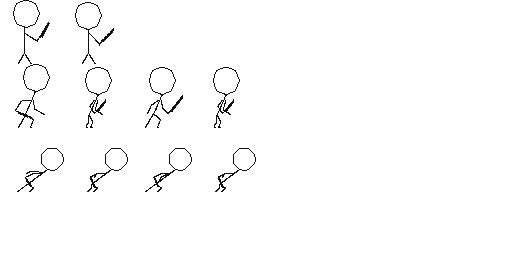
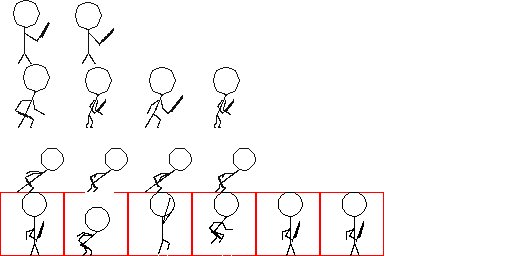
jumping animation

diff --git a/src/application/player.c b/src/application/player.c
@@ -16,7 +16,8 @@
 typedef enum
 {
     PS_IDLE =                   0,
-    PS_WALKING =                1
+    PS_WALKING =                1,
+    PS_JUMPING =                2
 } PlayerState;
 
 typedef enum
@@ -32,6 +33,7 @@ void player_update(Entity *self);
 void player_think(Entity *self);
 
 void player_walking();
+uint8_t player_jumping();
 
 float walkDir = 0.0f;
 uint8_t left, right;
@@ -52,7 +54,11 @@ void player_think(Entity *self)
     if(!self) return;
 
     player_walking();
-    if(walkDir != 0.0f)
+    if( player_jumping() )
+    {
+        currentState = PS_JUMPING;
+    }
+    else if(walkDir != 0.0f)
     {
         currentState = PS_WALKING;
     }
@@ -66,18 +72,32 @@ void player_think(Entity *self)
     case PS_WALKING:
         if( self->anim->animation != ANIM_WALKING )
         {
-            anim = punti_jordan_get_walking();
-            animSpeed = punti_jordan_get_walking_speed();
+            anim = pj_anim_walking();
+            animSpeed = pj_anim_walking_speed();
             gf2d_animation_play(self->anim, anim[0], anim[1]);
             self->anim->playbackSpeed = animSpeed;
+        }
+        break;
+
+    case PS_JUMPING:
+        anim = pj_anim_jumping();
+        animSpeed = pj_anim_jumping_speed();
+        if( self->anim->animation != anim[0] )
+        {
+            gf2d_animation_play(self->anim, anim[0], anim[1]);
+            self->anim->playbackSpeed = animSpeed;
+        }
+        else if( self->anim->rend->frame >= anim[0] * self->anim->rend->sprite->frames_per_line + anim[1] - 1)
+        {
+            gf2d_animation_pause(self->anim);
         }
         break;
     
     default:
         if( self->anim->animation != ANIM_IDLE )
         {
-            anim = punti_jordan_get_idle();
-            animSpeed = punti_jordan_get_idle_speed();
+            anim = pj_anim_idle();
+            animSpeed = pj_anim_idle_speed();
             gf2d_animation_play(self->anim, anim[0], anim[1]);
             self->anim->playbackSpeed = animSpeed;
         }
@@ -92,6 +112,10 @@ void player_update(Entity *self)
 
     /* update walking */
     self->velocity.x = walkDir * VELOCITY_CONST;
+
+    /* update jumping */
+    if( currentState == PS_JUMPING )
+        self->velocity.y = -10.0f;
 
     /* make camera follow player */
     cam.x = self->anim->rend->sprite->frame_w * self->anim->rend->scale.x;
@@ -126,4 +150,9 @@ void player_walking()
         left = 0;
 
     walkDir = (float)(right - left);
+}
+
+uint8_t player_jumping()
+{
+    return gf2d_input_is_key_pressed(SDL_SCANCODE_UP);
 }

diff --git a/src/application/punti_jordan.c b/src/application/punti_jordan.c
@@ -9,6 +9,8 @@ typedef struct
     float                   idleSpeed;
     uint32_t                walking[2];
     float                   walkingSpeed;
+    uint32_t                jumping[2];
+    float                   jumpingSpeed;
 } PuntiJordanConfig;
 
 static PuntiJordanConfig pj_config = {0};
@@ -23,6 +25,7 @@ void punti_jordan_load(const char *filename)
 
     punti_jordan_load_anim_values(pj_config.idle, &pj_config.idleSpeed, sj_object_get_value(json, "idle"));
     punti_jordan_load_anim_values(pj_config.walking, &pj_config.walkingSpeed, sj_object_get_value(json, "walking"));
+    punti_jordan_load_anim_values(pj_config.jumping, &pj_config.jumpingSpeed, sj_object_get_value(json, "jumping"));
 
     sj_free(json);
 }
@@ -34,22 +37,32 @@ void punti_jordan_load_anim_values(uint32_t *dst, float *speed, SJson *obj)
     sj_get_float_value( sj_object_get_value(obj, "playbackSpeed"), speed );
 }
 
-uint32_t *punti_jordan_get_idle()
+uint32_t *pj_anim_idle()
 {
     return pj_config.idle;
 }
 
-float punti_jordan_get_idle_speed()
+float pj_anim_idle_speed()
 {
     return pj_config.idleSpeed;
 }
 
-uint32_t *punti_jordan_get_walking()
+uint32_t *pj_anim_walking()
 {
     return pj_config.walking;
 }
 
-float punti_jordan_get_walking_speed()
+float pj_anim_walking_speed()
 {
     return pj_config.walkingSpeed;
+}
+
+uint32_t *pj_anim_jumping()
+{
+    return pj_config.jumping;
+}
+
+float pj_anim_jumping_speed()
+{
+    return pj_config.jumpingSpeed;
 }

diff --git a/include/application/punti_jordan.h b/include/application/punti_jordan.h
@@ -5,10 +5,13 @@
 
 void punti_jordan_load(const char *filename);
 
-uint32_t *punti_jordan_get_idle();
-float punti_jordan_get_idle_speed();
+uint32_t *pj_anim_idle();
+float pj_anim_idle_speed();
 
-uint32_t *punti_jordan_get_walking();
-float punti_jordan_get_walking_speed();
+uint32_t *pj_anim_walking();
+float pj_anim_walking_speed();
+
+uint32_t *pj_anim_jumping();
+float pj_anim_jumping_speed();
 
 #endif

diff --git a/src/gf2d_physics_entity.c b/src/gf2d_physics_entity.c
@@ -224,6 +224,7 @@ void gf2d_physics_entity_update( struct physics_entity_s *ent )
         if( ent->useGravity )
         {
             ent->entity->velocity.y += frameTime * GRAVITY * TIME_MULTIPLIER;
+            // slog("%.2f %.2f", ent->entity->velocity.x, ent->entity->velocity.y);
         }
 
         /* df = di + vt */
